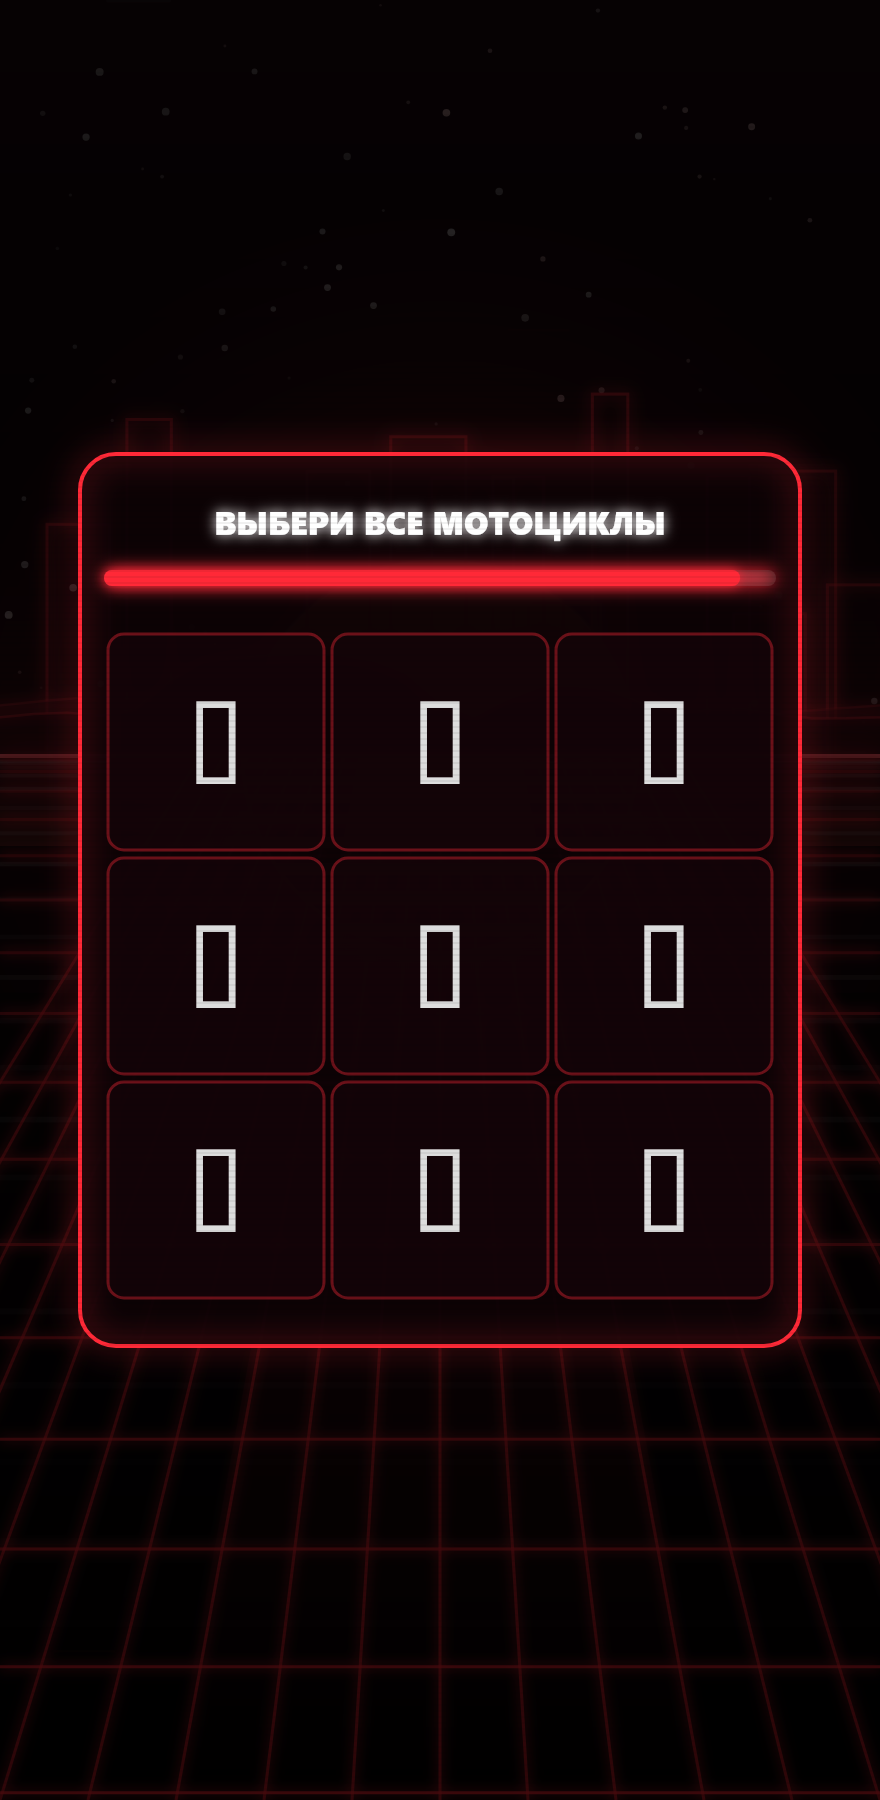
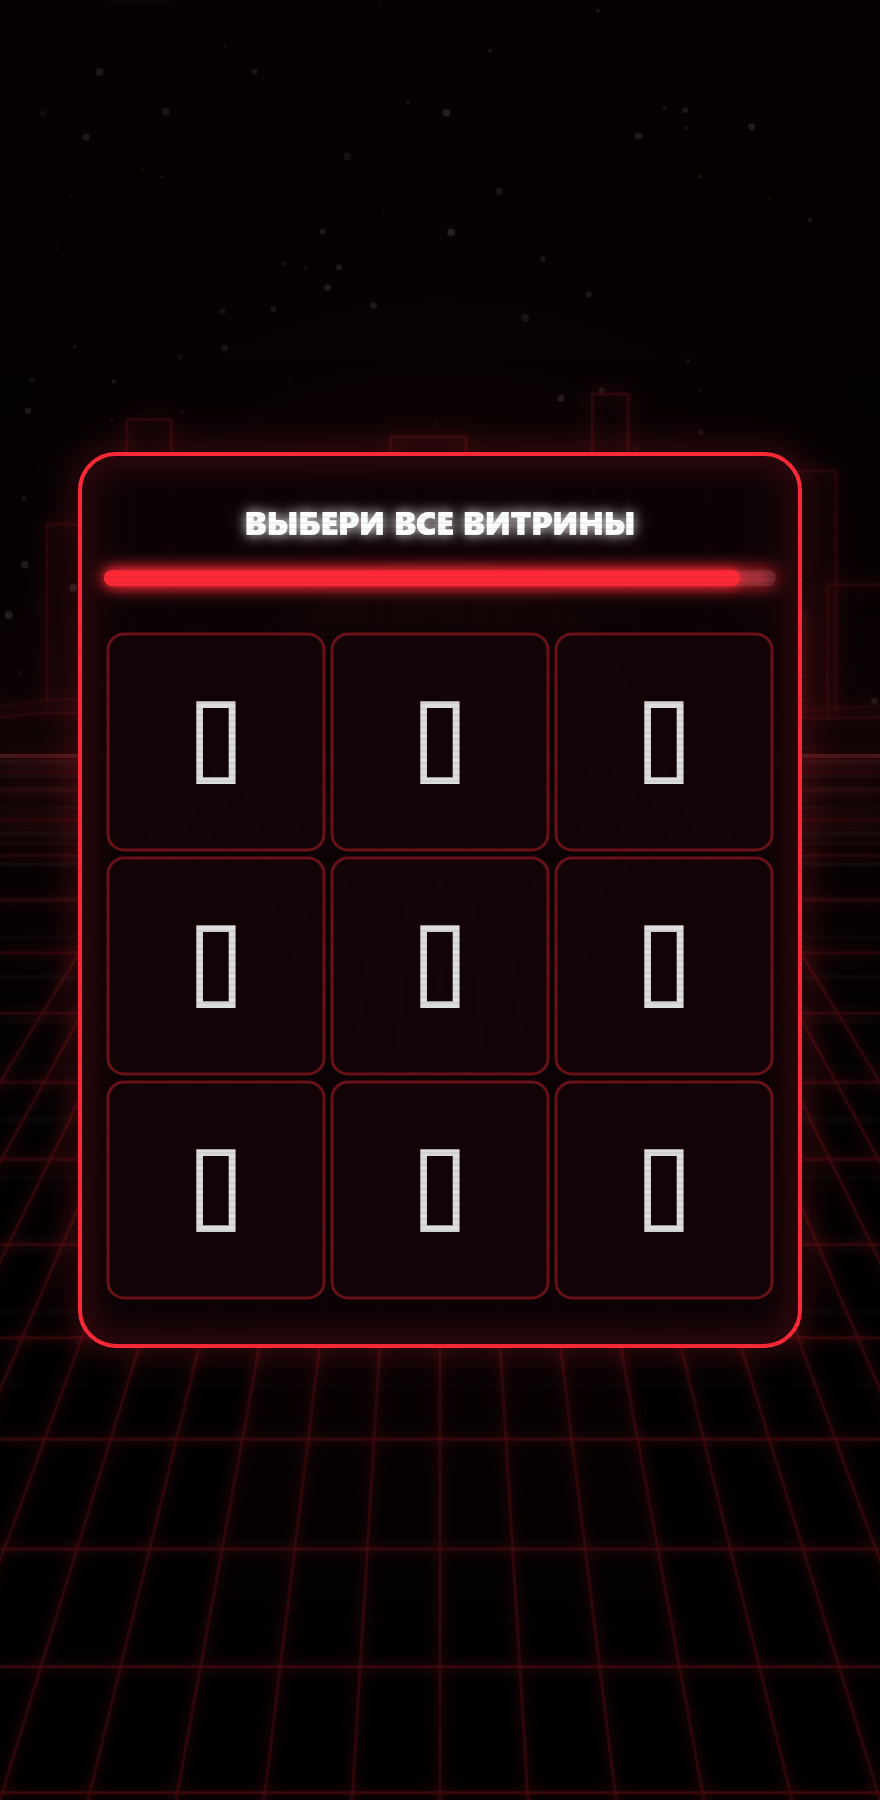
perf(game): fix massive fps drop by disabling shadow blur during complex internal gradient fills

Changed region(s): [[0.2148, 0.28, 0.767, 0.3111]]

diff --git a/src/main.js b/src/main.js
@@ -1,6 +1,7 @@
 // ЮБуст Раннер — бутстрап, игровой цикл, машина состояний, оркестрация.
 import { CONFIG } from '../config.js';
 import { setupCanvas, scanlines, clamp, drawRails } from './engine/render.js';
+import { bloom, aberration, vignette, grain } from './engine/postfx.js';
 import { Particles } from './engine/particles.js';
 import { initInput } from './engine/input.js';
 import { Audio } from './engine/audio.js';
@@ -19,6 +20,7 @@ import { STR, pick } from './ui/strings.js';
 import * as UI from './ui/screens.js';
 
 const C = CONFIG.COLORS;
+const FX = CONFIG.FX;
 const canvas = document.getElementById('gameCanvas');
 const { ctx, ...view } = setupCanvas(canvas);
 
@@ -56,6 +58,7 @@ let heartColCount = 0;
 const corridor = { safeLane: 1 };
 let shake = 0;
 let flash = 0;
+let fxFrame = 0;             // счётчик кадров для дрожащего оффсета зерна
 let dyingTimer = 0;
 let lastCard = null;
 let lastRecord = false;
@@ -379,6 +382,10 @@ function frame(now) {
     captchaGame.draw(ctx, t);
   }
 
+  // --- кинематографичная пост-обработка (см. CONFIG.FX) ---
+  if (FX.BLOOM) bloom(ctx, canvas, { strength: FX.BLOOM_STRENGTH, blur: FX.BLOOM_BLUR, scale: FX.BLOOM_SCALE });
+  if (FX.ABERRATION) aberration(ctx, canvas, FX.ABERRATION);
+
   // пост-эффекты
   const frac = clamp((speed - CONFIG.BASE_SPEED) / (CONFIG.MAX_SPEED - CONFIG.BASE_SPEED), 0, 1);
   const boosting = player.invuln > 0 && state !== 'captcha';
@@ -391,6 +398,8 @@ function frame(now) {
     ctx.save(); ctx.fillStyle = vg; ctx.fillRect(0, 0, geom.W, geom.H); ctx.restore();
   }
   if (flash > 0) { ctx.save(); ctx.globalAlpha = clamp(flash, 0, 1) * 0.6; ctx.fillStyle = state === 'dying' ? C.danger : C.white; ctx.fillRect(0, 0, geom.W, geom.H); ctx.restore(); }
+  if (FX.VIGNETTE) vignette(ctx, geom.W, geom.H, FX.VIGNETTE);
+  if (FX.GRAIN) grain(ctx, geom.W, geom.H, FX.GRAIN, fxFrame++);
   scanlines(ctx, geom.W, geom.H);
 
   // HUD

diff --git a/src/game/player.js b/src/game/player.js
@@ -105,6 +105,15 @@ export class Player {
       ctx.arcTo(V[i].x, V[i].y, V[next].x, V[next].y, radius);
     }
     ctx.closePath();
+    
+    // ОПТИМИЗАЦИЯ ПЕРФОРМАНСА: рисуем тень один раз от базовой маски
+    ctx.fillStyle = C.red;
+    ctx.fill();
+    
+    // Отключаем ресурсоемкую тень для всех внутренних градиентов и линий!
+    ctx.shadowColor = 'transparent';
+    ctx.shadowBlur = 0;
+
     ctx.clip();
 
     // Градиенты для граней
@@ -247,14 +256,15 @@ export class Player {
     ctx.arc(0, 0, s * 0.24, 0, Math.PI * 2);
     ctx.fill();
     
+    ctx.shadowColor = 'transparent'; // Выключаем тень после базы глаза
+    ctx.shadowBlur = 0;
+    
     // Внутренняя тень глаза для объема
     ctx.strokeStyle = 'rgba(0,0,0,0.1)';
     ctx.lineWidth = 2;
     ctx.beginPath();
     ctx.arc(0, 0, s * 0.24, 0, Math.PI * 2);
     ctx.stroke();
-
-    ctx.shadowColor = 'transparent';
 
     if (m === 'boost') {
       // Крутые очки в бусте с неоновым отблеском

diff --git a/config.js b/config.js
@@ -72,8 +72,8 @@ export const CONFIG = {
   // не поддерживает filter/composite (старый webview), эффект просто пропускается.
   FX: {
     BLOOM: true,           // настоящий неон-bloom (размытый яркий кадр поверх, additive)
-    BLOOM_STRENGTH: 0.62,  // сила свечения (0..1)
-    BLOOM_BLUR: 14,        // радиус размытия (px устройства до даунскейла)
+    BLOOM_STRENGTH: 0.42,  // сила свечения (0..1)
+    BLOOM_BLUR: 16,        // радиус размытия (px устройства до даунскейла)
     BLOOM_SCALE: 0.5,      // даунскейл буфера bloom (меньше = мягче и быстрее)
     VIGNETTE: 0.42,        // затемнение углов (0 = выкл)
     GRAIN: 0.05,           // плёночное зерно (0 = выкл)
